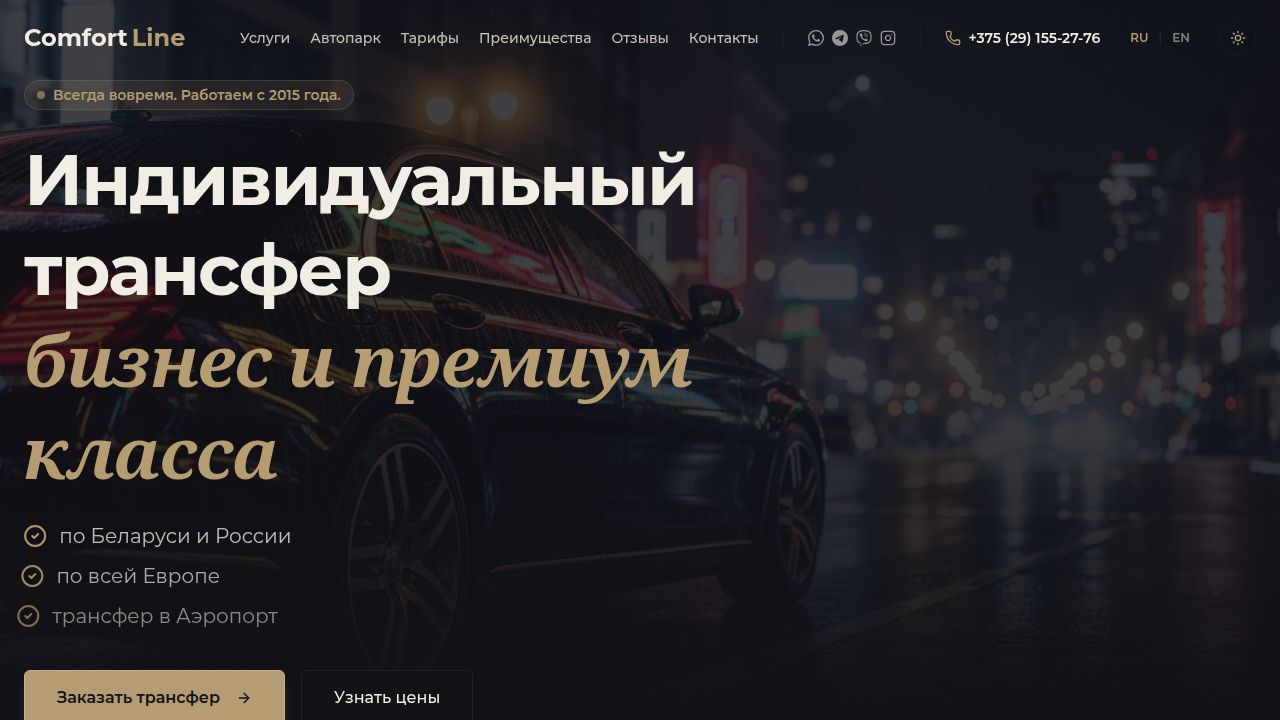
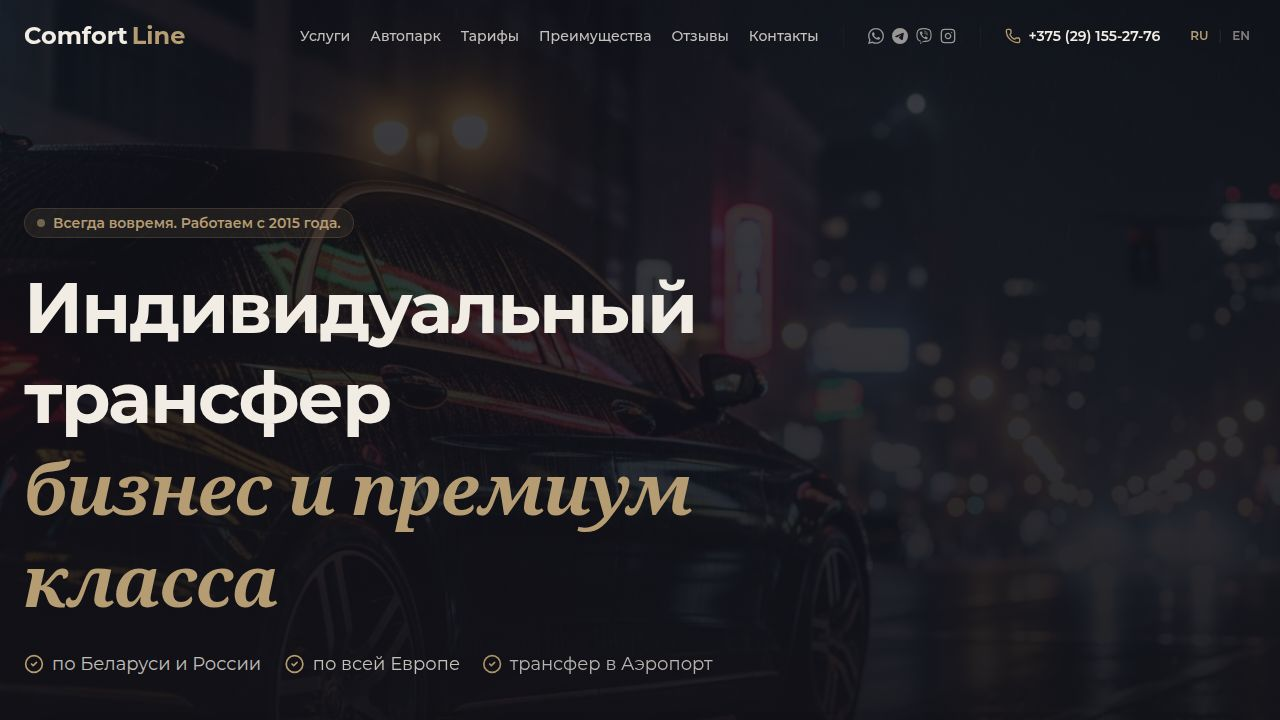
Add booking submission functionality with email notifications
Integrates the booking widget with an API endpoint to send order details via email using Resend. Adds loading states and error handling to the submission process.

Replit-Commit-Author: Agent
Replit-Commit-Session-Id: f96f2f93-1595-4d47-ad08-f0e81ac0dd7f
Replit-Commit-Checkpoint-Type: full_checkpoint
Replit-Commit-Event-Id: 34d23060-353b-4189-8908-6d015605cfb6
Replit-Commit-Screenshot-Url: https://storage.googleapis.com/screenshot-production-us-central1/cfb9d050-eac5-4e45-8ae6-95fe910dad93/f96f2f93-1595-4d47-ad08-f0e81ac0dd7f/iriUE8w
Replit-Helium-Checkpoint-Created: true

diff --git a/artifacts/api-server/src/routes/booking.ts b/artifacts/api-server/src/routes/booking.ts
@@ -1,0 +1,86 @@
+import { Router, type IRouter } from "express";
+import { Resend } from "resend";
+
+const router: IRouter = Router();
+const resend = new Resend(process.env["RESEND_API_KEY"]);
+
+const TO_EMAIL = "[email redacted]";
+
+router.post("/booking", async (req, res) => {
+  const { from, to, date, adults, children, babies, pets, suitcases, vehicleClass, lang } = req.body;
+
+  const isRu = lang === "ru";
+  const classMap: Record<string, string> = {
+    any: isRu ? "Любой" : "Any",
+    comfort: isRu ? "Комфорт" : "Comfort",
+    business: isRu ? "Бизнес" : "Business",
+    premium: isRu ? "Премиум" : "Premium",
+  };
+
+  const subject = isRu
+    ? `Новая заявка на трансфер: ${from} → ${to}`
+    : `New transfer request: ${from} → ${to}`;
+
+  const html = `
+    <div style="font-family: sans-serif; max-width: 600px; margin: 0 auto;">
+      <h2 style="color: #B59C73; border-bottom: 2px solid #B59C73; padding-bottom: 8px;">
+        ${isRu ? "Новая заявка на трансфер" : "New Transfer Request"}
+      </h2>
+      <table style="width: 100%; border-collapse: collapse; margin-top: 16px;">
+        <tr style="background: #f9f9f9;">
+          <td style="padding: 10px 16px; font-weight: bold; width: 40%;">${isRu ? "Откуда" : "From"}</td>
+          <td style="padding: 10px 16px;">${from || "—"}</td>
+        </tr>
+        <tr>
+          <td style="padding: 10px 16px; font-weight: bold;">${isRu ? "Куда" : "To"}</td>
+          <td style="padding: 10px 16px;">${to || "—"}</td>
+        </tr>
+        <tr style="background: #f9f9f9;">
+          <td style="padding: 10px 16px; font-weight: bold;">${isRu ? "Дата" : "Date"}</td>
+          <td style="padding: 10px 16px;">${date || "—"}</td>
+        </tr>
+        <tr>
+          <td style="padding: 10px 16px; font-weight: bold;">${isRu ? "Взрослые" : "Adults"}</td>
+          <td style="padding: 10px 16px;">${adults ?? 1}</td>
+        </tr>
+        <tr style="background: #f9f9f9;">
+          <td style="padding: 10px 16px; font-weight: bold;">${isRu ? "Дети (2–12 лет)" : "Children (2–12)"}</td>
+          <td style="padding: 10px 16px;">${children ?? 0}</td>
+        </tr>
+        <tr>
+          <td style="padding: 10px 16px; font-weight: bold;">${isRu ? "Младенцы" : "Babies"}</td>
+          <td style="padding: 10px 16px;">${babies ?? 0}</td>
+        </tr>
+        <tr style="background: #f9f9f9;">
+          <td style="padding: 10px 16px; font-weight: bold;">${isRu ? "Питомцы" : "Pets"}</td>
+          <td style="padding: 10px 16px;">${pets ?? 0}</td>
+        </tr>
+        <tr>
+          <td style="padding: 10px 16px; font-weight: bold;">${isRu ? "Чемоданы" : "Suitcases"}</td>
+          <td style="padding: 10px 16px;">${suitcases ?? 1}</td>
+        </tr>
+        <tr style="background: #f9f9f9;">
+          <td style="padding: 10px 16px; font-weight: bold;">${isRu ? "Класс" : "Class"}</td>
+          <td style="padding: 10px 16px;">${classMap[vehicleClass] ?? vehicleClass}</td>
+        </tr>
+      </table>
+      <p style="margin-top: 24px; color: #888; font-size: 12px;">
+        ComfortLine Transfer — comfortline.by
+      </p>
+    </div>
+  `;
+
+  try {
+    await resend.emails.send({
+      from: "ComfortLine <[email redacted]>",
+      to: [TO_EMAIL],
+      subject,
+      html,
+    });
+    res.json({ ok: true });
+  } catch (err) {
+    res.status(500).json({ ok: false, error: String(err) });
+  }
+});
+
+export default router;

diff --git a/artifacts/comfortline-website/src/components/sections/BookingWidget.tsx b/artifacts/comfortline-website/src/components/sections/BookingWidget.tsx
@@ -97,9 +97,36 @@ export function BookingWidget() {
   const paxSummary = paxLabel(totalPax, b.passengerOne, b.passengerFew, b.passengerMany)
     + (pax.vehicleClass !== "any" ? ` · ${classLabel}` : "");
 
-  function handleSubmit(e: React.FormEvent) {
+  const [submitting, setSubmitting] = useState(false);
+
+  async function handleSubmit(e: React.FormEvent) {
     e.preventDefault();
-    toast({ title: b.toastTitle, description: b.toastDesc });
+    setSubmitting(true);
+    try {
+      const res = await fetch("/api/booking", {
+        method: "POST",
+        headers: { "Content-Type": "application/json" },
+        body: JSON.stringify({
+          from, to, date,
+          adults: pax.adults,
+          children: pax.children,
+          babies: pax.babies,
+          pets: pax.pets,
+          suitcases: pax.suitcases,
+          vehicleClass: pax.vehicleClass,
+          lang: t.lang,
+        }),
+      });
+      if (res.ok) {
+        toast({ title: b.toastTitle, description: b.toastDesc });
+      } else {
+        toast({ title: "Error", description: "Failed to send request. Please try again.", variant: "destructive" });
+      }
+    } catch {
+      toast({ title: "Error", description: "Failed to send request. Please try again.", variant: "destructive" });
+    } finally {
+      setSubmitting(false);
+    }
   }
 
   const Sep = () => <div className="shrink-0 w-px h-10 bg-gray-200 self-center" />;
@@ -219,9 +246,9 @@ export function BookingWidget() {
 
         {/* SUBMIT */}
         <div className="px-3 py-3 shrink-0 flex items-center">
-          <button type="submit"
-            className="w-full md:w-auto px-7 py-4 bg-primary text-primary-foreground font-bold text-sm rounded-xl hover:opacity-90 active:scale-95 transition-all whitespace-nowrap shadow-lg shadow-primary/30">
-            {b.cta}
+          <button type="submit" disabled={submitting}
+            className="w-full md:w-auto px-7 py-4 bg-primary text-primary-foreground font-bold text-sm rounded-xl hover:opacity-90 active:scale-95 transition-all whitespace-nowrap shadow-lg shadow-primary/30 disabled:opacity-70 disabled:cursor-not-allowed">
+            {submitting ? "..." : b.cta}
           </button>
         </div>
       </div>

diff --git a/artifacts/comfortline-website/src/context/language-context.tsx b/artifacts/comfortline-website/src/context/language-context.tsx
@@ -3,6 +3,7 @@ import { createContext, useContext, useState, ReactNode } from "react";
 type Lang = "ru" | "en";
 
 interface Translations {
+  lang: "ru" | "en";
   nav: {
     services: string;
     fleet: string;
@@ -116,6 +117,7 @@ interface Translations {
 }
 
 const ru: Translations = {
+  lang: "ru",
   nav: {
     services: "Услуги",
     fleet: "Автопарк",
@@ -250,6 +252,7 @@ const ru: Translations = {
 };
 
 const en: Translations = {
+  lang: "en",
   nav: {
     services: "Services",
     fleet: "Fleet",

diff --git a/artifacts/api-server/src/routes/index.ts b/artifacts/api-server/src/routes/index.ts
@@ -1,8 +1,10 @@
 import { Router, type IRouter } from "express";
 import healthRouter from "./health";
+import bookingRouter from "./booking";
 
 const router: IRouter = Router();
 
 router.use(healthRouter);
+router.use(bookingRouter);
 
 export default router;